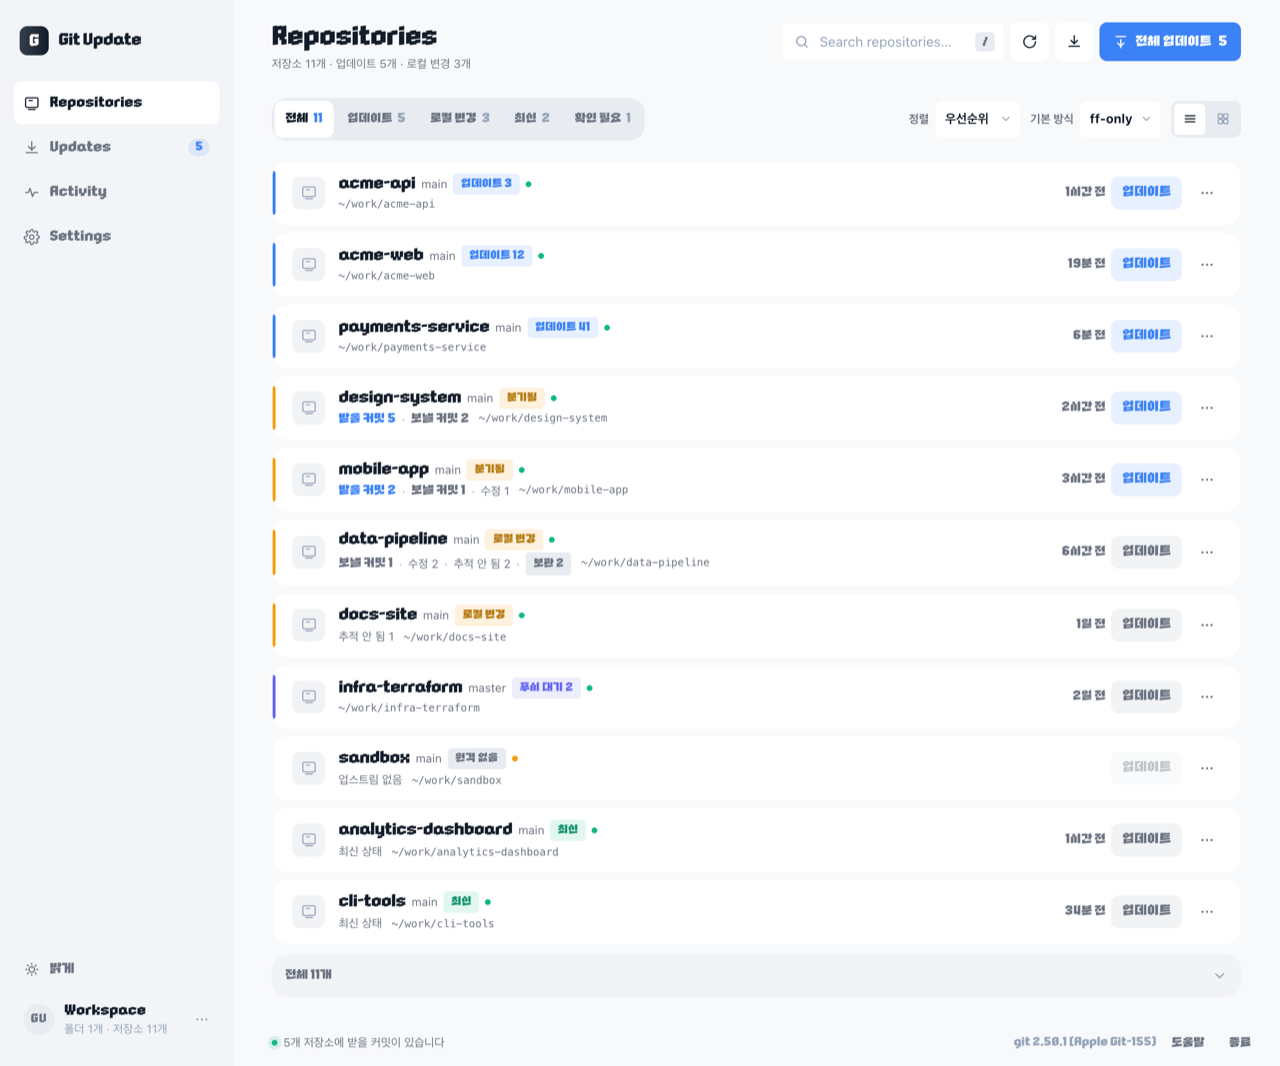
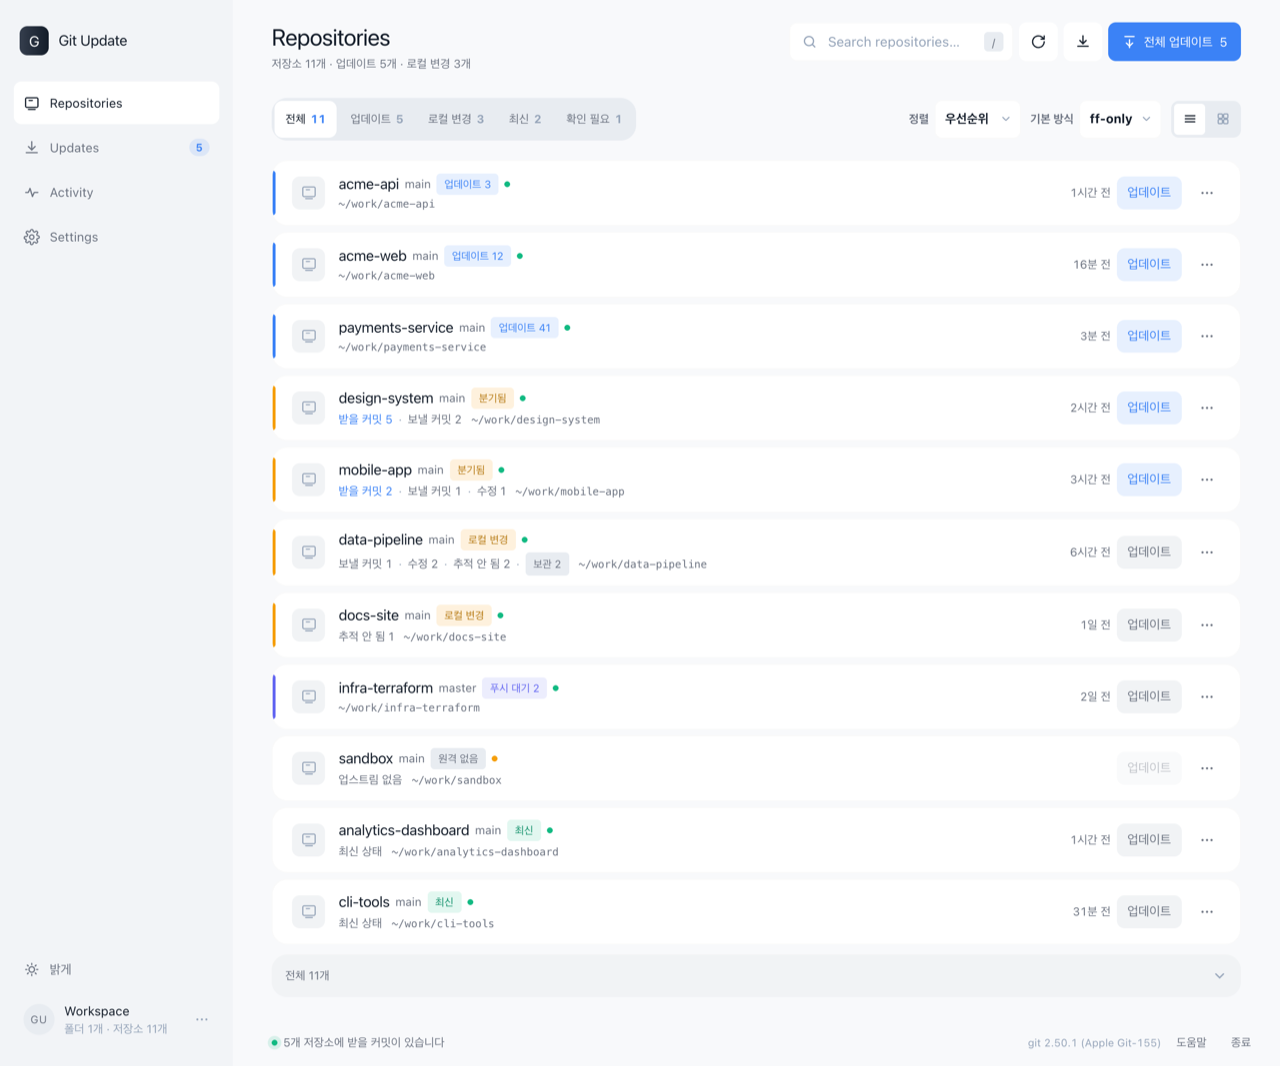
style: 시스템 기본 폰트로 복원 + 스크린샷 재촬영

diff --git a/gitupdate/web/quiet-observer.css b/gitupdate/web/quiet-observer.css
@@ -7,7 +7,7 @@
   /* Cafe24 PRO UP ships one heavy weight, so it carries the display roles —
    * brand, titles, names, buttons, badges, every number. Secondary prose stays
    * on the system face where 12px has to stay legible. */
-  --app-font-display: "Cafe24 PRO UP", -apple-system, BlinkMacSystemFont, "Apple SD Gothic Neo", system-ui, sans-serif;
+  --app-font-display: -apple-system, BlinkMacSystemFont, "Apple SD Gothic Neo", "Pretendard", system-ui, sans-serif;
   --app-font-body: -apple-system, BlinkMacSystemFont, "Apple SD Gothic Neo", "Pretendard", system-ui, sans-serif;
   --app-font-mono: ui-monospace, "SFMono-Regular", Menlo, Monaco, Consolas, monospace;
 

diff --git a/gitupdate/web/index.html b/gitupdate/web/index.html
@@ -16,14 +16,7 @@
 })();
 </script>
 <style>
-/* 토큰 인증이 붙은 주소라서 폰트 선언은 토큰이 치환되는 이 블록에 둔다. */
-@font-face{
-  font-family:"Cafe24 PRO UP";
-  src:url("/fonts/Cafe24PROUP.otf?t=__TOKEN__") format("opentype");
-  font-weight:100 900;   /* 단일 굵기 서체 — 가짜 볼드를 만들지 않는다 */
-  font-style:normal;
-  font-display:swap;
-}
+/* 토큰 인증이 붙은 주소라서 스타일시트 경로에도 토큰이 필요하다. */
 </style>
 <link rel="stylesheet" href="/tokens.css?t=__TOKEN__">
 <link rel="stylesheet" href="/quiet-observer.css?t=__TOKEN__">
